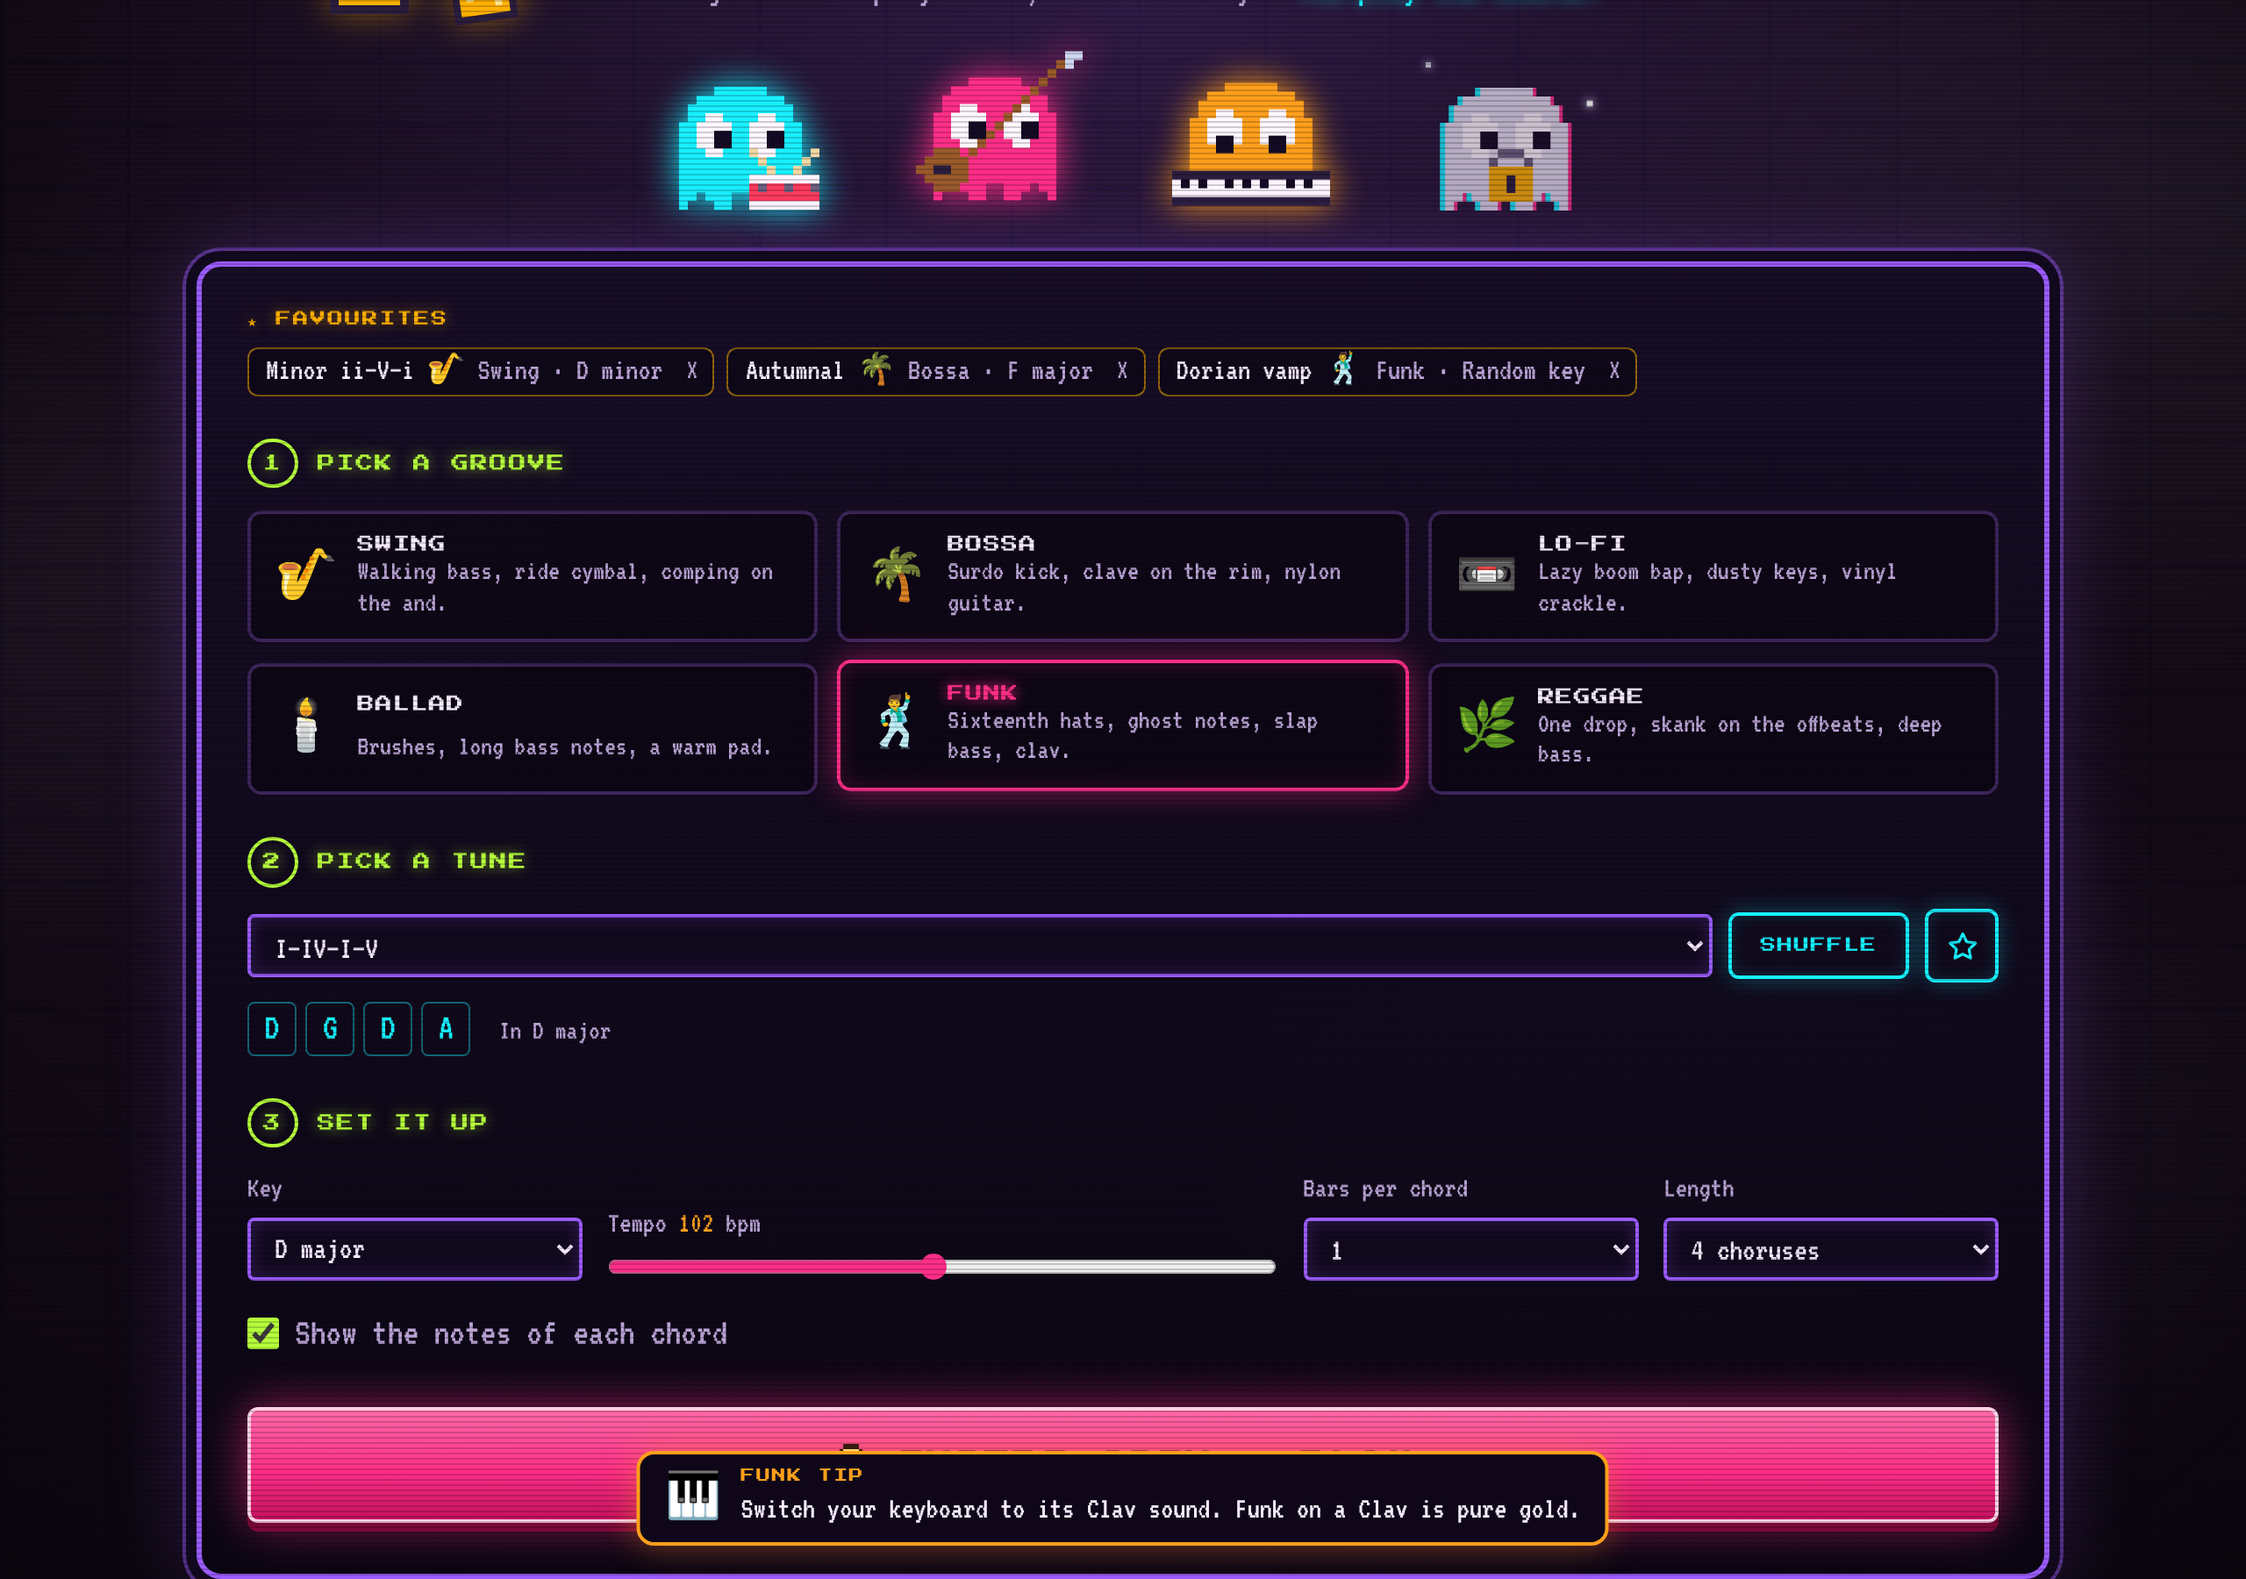
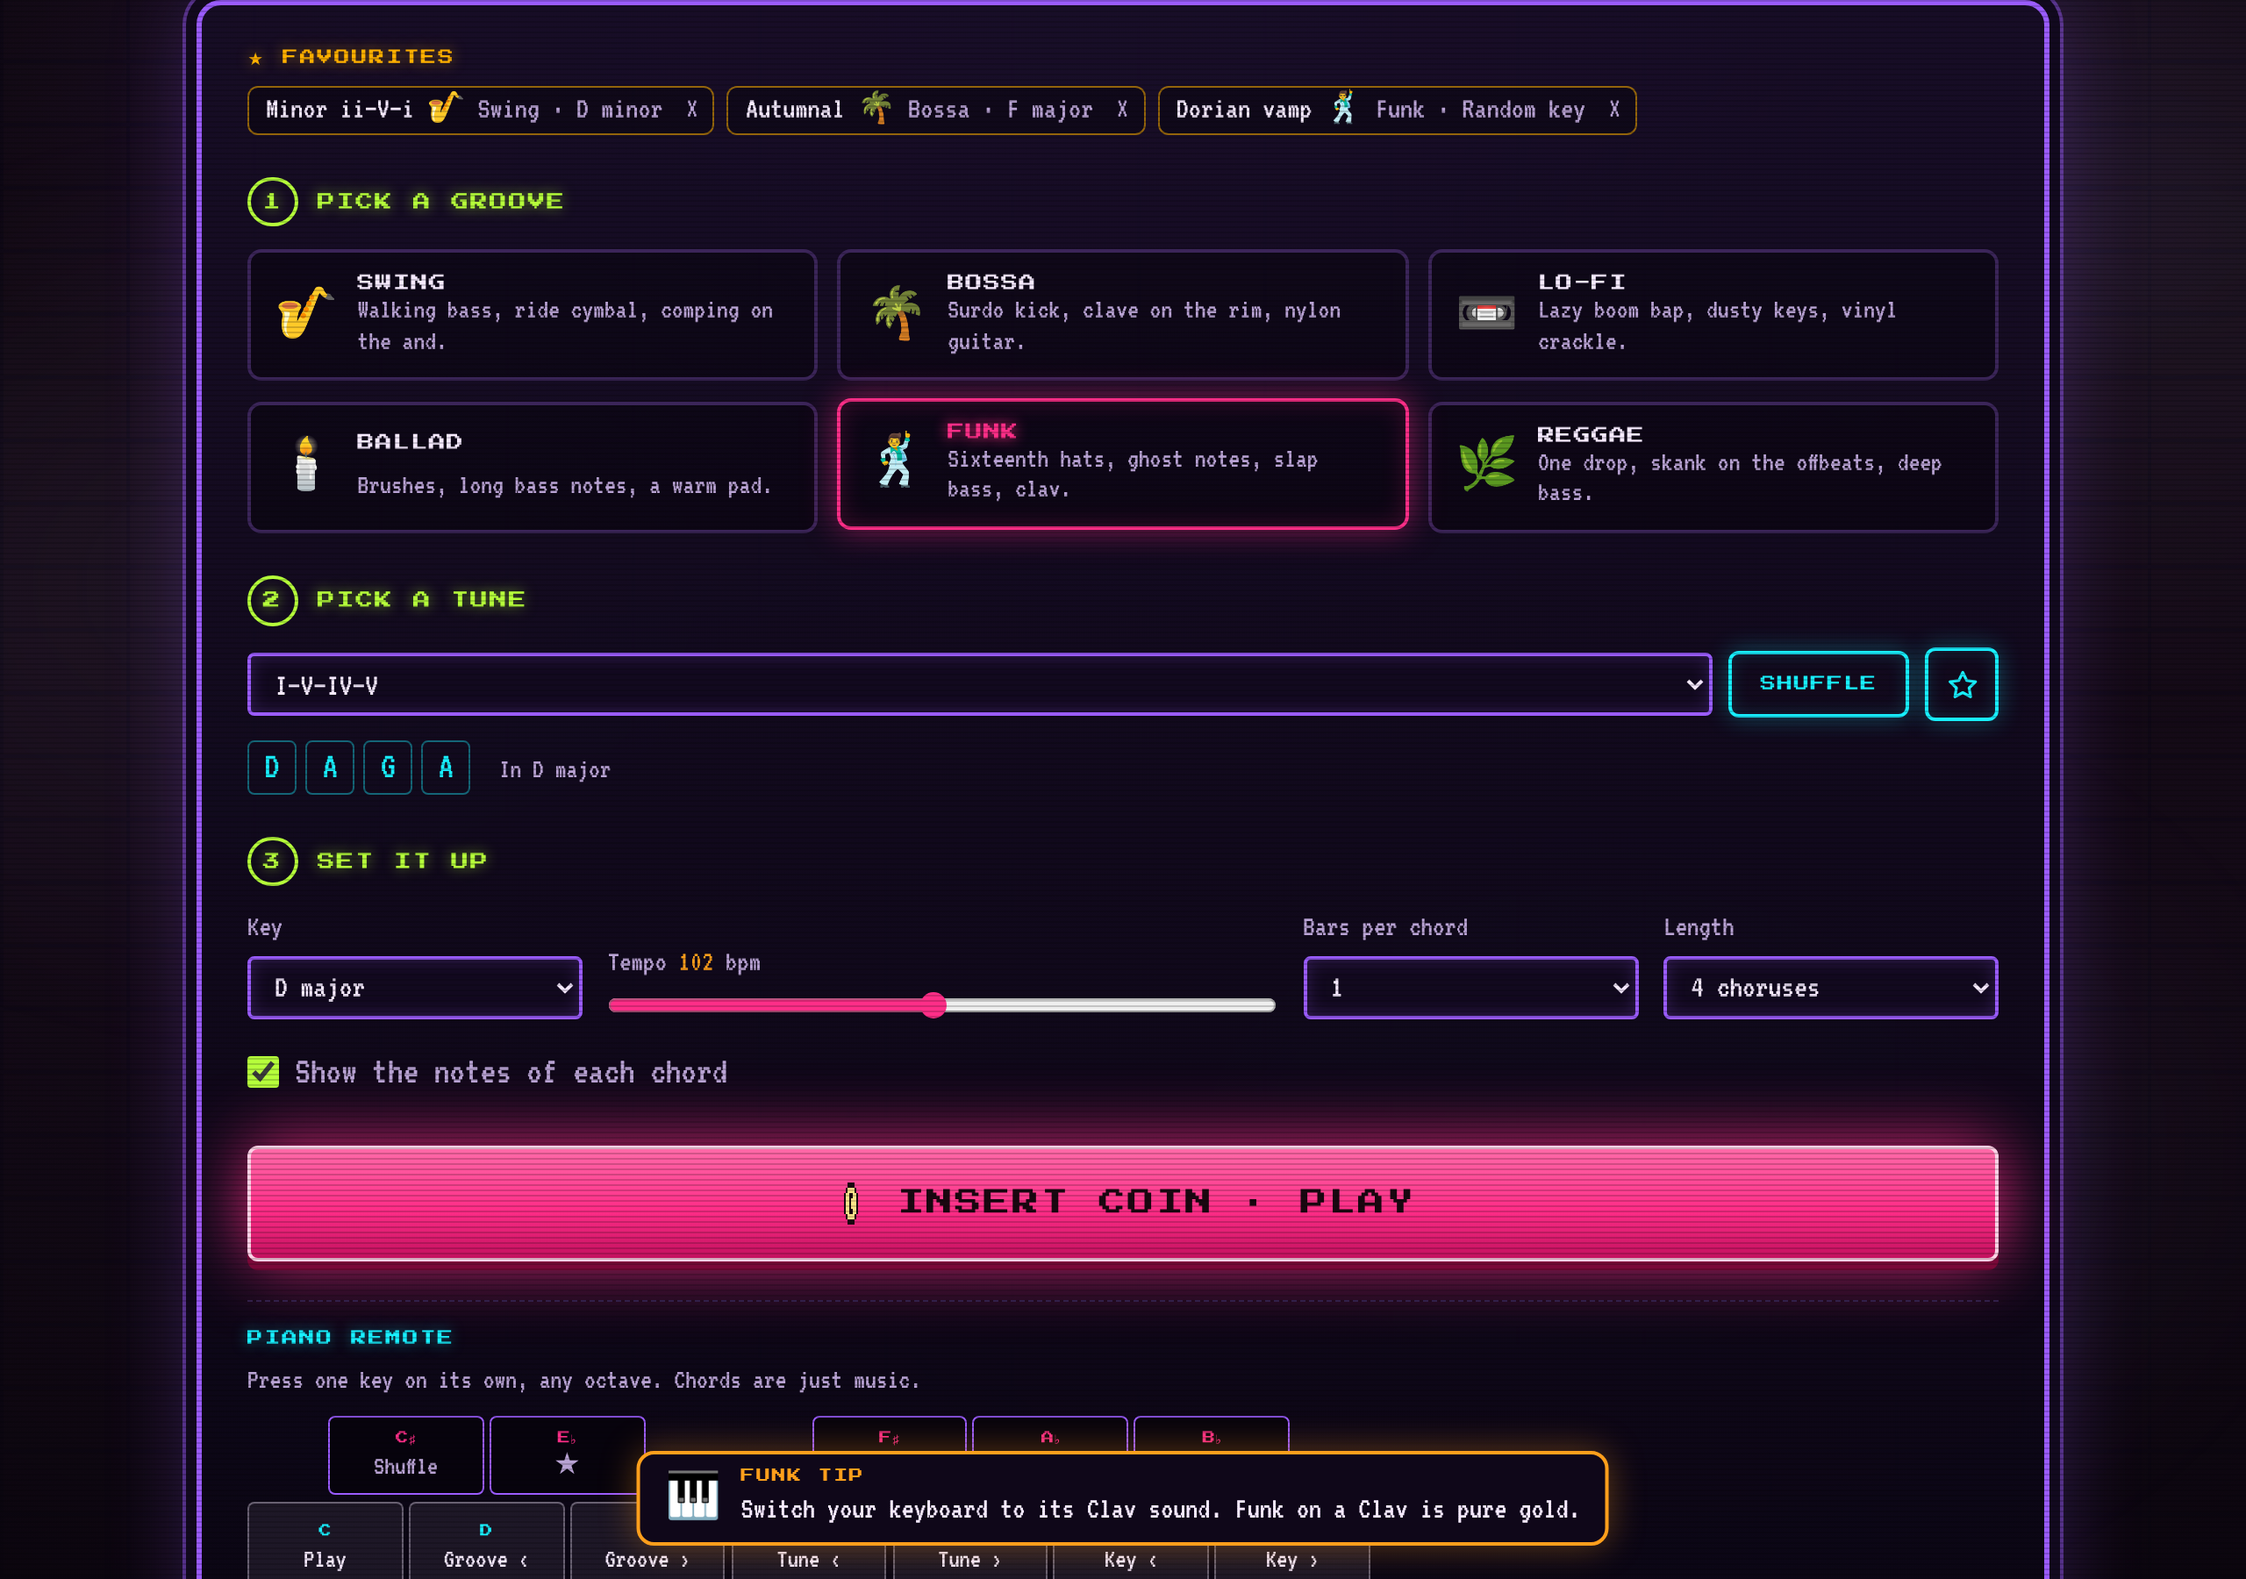
Ghost Jam: piano remote for the menus, keyboard shortcuts in play
Claude-Session: https://claude.ai/code/session_01FTf6Pa16uagEU9wMwitgnF

Changed region(s): [[0.0625, 0.0, 0.9375, 0.4978], [0.0625, 0.5289, 0.9375, 1.0], [0.375, 0.4978, 0.625, 0.5289]]

diff --git a/jam/js/main.js b/jam/js/main.js
@@ -19,6 +19,7 @@ import { track, logRun } from '../../js/stats/log.js';
 import { JamTracker } from './achievements.js';
 import { initTrophyCase, grant, bump, setMax, setFinished } from './trophyCase.js';
 import { isFavourite, toggleFavourite, removeFavourite, cleanFavourites } from './favourites.js';
+import { PianoRemote, SETUP_KEYS, RESULT_KEYS, step } from './remote.js';
 
 const $ = (id) => document.getElementById(id);
 const params = new URLSearchParams(location.search);
@@ -218,16 +219,18 @@ function renderHall() {
     : '<li class="hall-empty">No scores yet. The stage is yours.</li>';
 }
 
-$('styleGrid').addEventListener('click', (e) => {
-  const card = e.target.closest('[data-style]');
-  if (!card) return;
-  if (card.dataset.style !== settings.style) grooveTip(card.dataset.style);
-  settings.style = card.dataset.style;
+function setStyle(id) {
+  if (id !== settings.style) grooveTip(id);
+  settings.style = id;
   settings.tempo = null; // each groove has its own home tempo
   // A new groove keeps the tune only if it suits it.
   if (!fitsStyle(tuneByName(settings.tune), settings.style)) settings.tune = randomTune(settings.style);
   save();
   renderSetup();
+}
+$('styleGrid').addEventListener('click', (e) => {
+  const card = e.target.closest('[data-style]');
+  if (card) setStyle(card.dataset.style);
 });
 $('tuneSelect').addEventListener('change', (e) => { settings.tune = e.target.value; save(); renderCombo(); });
 $('randomTuneBtn').addEventListener('click', () => {
@@ -331,6 +334,8 @@ function midiStatus({ state, names }) {
   else if (state === 'unsupported') renderMidiHint(status, 'MIDI not supported here');
   else if (state === 'denied') renderMidiHint(status, 'MIDI access denied', { html: DENIED_HELP_HTML });
   $('midiGate').hidden = state === 'connected';
+  $('remote').hidden = state !== 'connected';
+  $('resultRemote').hidden = state !== 'connected';
   const copy = gateCopy(state);
   $('gateTitle').textContent = copy.title;
   $('gateSub').textContent = copy.sub;
@@ -454,6 +459,7 @@ function heldPcs() {
 }
 
 function onNoteOn(midi, velocity = 80, tPerf = performance.now()) {
+  remote.noteOn(midi, remoteScreen() !== null);
   held.set(midi, null);
   velocities.set(midi, velocity);
   let role = 'tone';
@@ -474,6 +480,8 @@ function onNoteOn(midi, velocity = 80, tPerf = performance.now()) {
 }
 
 function onNoteOff(midi) {
+  const pc = remote.noteOff(midi);
+  if (pc !== null) runRemote(pc);
   held.delete(midi);
   velocities.delete(midi);
   keyState(midi, null);
@@ -817,6 +825,97 @@ function backToSetup() {
   $('viewSetup').hidden = false;
   renderSetup();
 }
+
+// ---- Piano remote + keyboard shortcuts ----
+// On the setup and results screens a single key on the piano is a command
+// (see remote.js). The legend under the Play button shows which.
+
+const remote = new PianoRemote();
+
+function remoteScreen() {
+  if (!$('achModal').hidden) return null;
+  if (!game && !$('viewSetup').hidden) return 'setup';
+  if (game?.over && !$('resultModal').hidden) return 'results';
+  return null;
+}
+
+function flash(el) {
+  if (!el) return;
+  el.classList.remove('remote-flash');
+  void el.offsetWidth;
+  el.classList.add('remote-flash');
+  el.scrollIntoView({ block: 'nearest', behavior: 'smooth' });
+}
+
+// Move a <select> by one option and tell its listener.
+function stepSelect(sel, dir) {
+  sel.value = step([...sel.options].map((o) => o.value), sel.value, dir);
+  sel.dispatchEvent(new Event('change'));
+  flash(sel);
+}
+
+const SETUP_ACTIONS = {
+  play: () => $('playBtn').click(),
+  shuffle: () => { $('randomTuneBtn').click(); flash($('tuneSelect')); },
+  groovePrev: () => { setStyle(step(STYLE_ORDER, settings.style, -1)); flash($('styleGrid').querySelector('.is-on')); },
+  grooveNext: () => { setStyle(step(STYLE_ORDER, settings.style, 1)); flash($('styleGrid').querySelector('.is-on')); },
+  favourite: () => { $('favBtn').click(); flash($('favBtn')); },
+  tunePrev: () => stepSelect($('tuneSelect'), -1),
+  tuneNext: () => stepSelect($('tuneSelect'), 1),
+  keyPrev: () => stepSelect($('keySelect'), -1),
+  keyNext: () => stepSelect($('keySelect'), 1),
+  tempoDown: () => nudgeTempo(-5),
+  tempoUp: () => nudgeTempo(5),
+  nextFavourite: () => {
+    if (!favs.length) return;
+    const i = favs.findIndex((f) => isFavourite([f], combo()));
+    $('favList').querySelector(`[data-fav="${(i + 1) % favs.length}"]`).click();
+    flash($('favList').querySelector('.fav.is-on'));
+  },
+};
+const RESULT_ACTIONS = {
+  again: () => $('resultAgainBtn').click(),
+  back: () => $('resultBackBtn').click(),
+};
+
+function nudgeTempo(d) {
+  const range = $('tempoRange');
+  range.value = Number(range.value) + d;
+  range.dispatchEvent(new Event('input'));
+  flash(range.closest('.knob'));
+}
+
+function runRemote(pc) {
+  const screen = remoteScreen();
+  const cmd = screen === 'setup' ? SETUP_KEYS[pc] : screen === 'results' ? RESULT_KEYS[pc] : null;
+  if (!cmd) return;
+  (screen === 'setup' ? SETUP_ACTIONS : RESULT_ACTIONS)[cmd.id]();
+}
+
+// One octave, laid out like a piano: white keys below, black keys above.
+const BLACK_PCS = [1, 3, 6, 8, 10];
+const NOTE_LBL = ['C', 'C♯', 'D', 'E♭', 'E', 'F', 'F♯', 'G', 'A♭', 'A', 'B♭', 'B'];
+const WHITE_COL = { 0: 1, 2: 3, 4: 5, 5: 7, 7: 9, 9: 11, 11: 13 };
+$('remoteKeys').innerHTML = Object.entries(SETUP_KEYS).map(([pc, k]) => {
+  pc = Number(pc);
+  const black = BLACK_PCS.includes(pc);
+  const col = black ? WHITE_COL[pc - 1] + 1 : WHITE_COL[pc];
+  return `<span class="rk ${black ? 'rk-black' : 'rk-white'}" style="grid-column:${col} / span 2"><b>${NOTE_LBL[pc]}</b>${k.label}</span>`;
+}).join('');
+$('resultRemote').innerHTML = `Piano: ${Object.entries(RESULT_KEYS).map(([pc, k]) => `<b>${NOTE_LBL[pc]}</b> ${k.label}`).join(' · ')}`;
+
+document.addEventListener('keydown', (e) => {
+  if (e.repeat || e.metaKey || e.ctrlKey || e.altKey) return;
+  if (e.target.closest('input, select, textarea, button, a')) return;
+  if (game && !game.over) {
+    if (e.key === 'r' || e.key === 'R') { e.preventDefault(); restartGame(); }
+    else if (e.key === ' ') { e.preventDefault(); stopGame(); }
+  } else if (e.key === 'Enter') {
+    const screen = remoteScreen();
+    if (screen === 'setup') { e.preventDefault(); startGame(); }
+    else if (screen === 'results') { e.preventDefault(); $('resultAgainBtn').click(); }
+  }
+});
 
 $('playBtn').addEventListener('click', () => startGame());
 $('stopBtn').addEventListener('click', stopGame);

diff --git a/jam/js/remote.js b/jam/js/remote.js
@@ -1,0 +1,61 @@
+// Ghost Jam: the piano as a remote control for the menus. One key, pressed
+// and released on its own, is a command; a chord (or a key pressed while
+// another is held) is just playing and does nothing. Commands go by pitch
+// class, so any octave works. Never used while a set is playing: there the
+// notes belong to the judge.
+
+// Setup screen, one octave from C.
+export const SETUP_KEYS = {
+  0: { id: 'play', label: 'Play' },
+  1: { id: 'shuffle', label: 'Shuffle' },
+  2: { id: 'groovePrev', label: 'Groove ‹' },
+  3: { id: 'favourite', label: '★' },
+  4: { id: 'grooveNext', label: 'Groove ›' },
+  5: { id: 'tunePrev', label: 'Tune ‹' },
+  6: { id: 'tempoDown', label: 'Tempo −' },
+  7: { id: 'tuneNext', label: 'Tune ›' },
+  8: { id: 'tempoUp', label: 'Tempo +' },
+  9: { id: 'keyPrev', label: 'Key ‹' },
+  10: { id: 'nextFavourite', label: 'Fav ›' },
+  11: { id: 'keyNext', label: 'Key ›' },
+};
+
+// Results screen.
+export const RESULT_KEYS = {
+  0: { id: 'again', label: 'Play again' },
+  2: { id: 'back', label: 'Change tune' },
+};
+
+export class PianoRemote {
+  constructor() {
+    this.held = new Set();
+    this.armed = null;   // the key that opened the gesture, if it can be a command
+    this.spoiled = false; // another key joined in: it was a chord
+  }
+
+  // enabled: whether a command may start now (a menu is on screen).
+  noteOn(midi, enabled) {
+    if (this.held.size === 0) {
+      this.armed = enabled ? midi : null;
+      this.spoiled = false;
+    } else {
+      this.spoiled = true;
+    }
+    this.held.add(midi);
+  }
+
+  // Returns the pitch class of the command once every key is up, or null.
+  noteOff(midi) {
+    this.held.delete(midi);
+    if (this.held.size) return null;
+    const m = this.armed;
+    this.armed = null;
+    return m === null || this.spoiled ? null : m % 12;
+  }
+}
+
+// Step through a list with wrap-around.
+export const step = (list, current, dir) => {
+  const i = list.indexOf(current);
+  return list[((i < 0 ? 0 : i + dir) % list.length + list.length) % list.length];
+};

diff --git a/jam/jam.css b/jam/jam.css
@@ -774,3 +774,20 @@ body[data-energy="3"] .beat-glow { --glow: 0.55; }
 .groove-tip.visible { opacity: 1; transform: translate(-50%, 0); }
 .groove-tip-icon { font-size: 1.6rem; line-height: 1; }
 .groove-tip b { font-family: var(--font-display); font-size: 0.5rem; letter-spacing: 0.1em; text-transform: uppercase; color: var(--orange); font-weight: 400; display: block; margin-bottom: 0.2rem; }
+
+/* Piano remote: which key does what on the setup screen. */
+.remote { margin-top: 1.4rem; padding-top: 1rem; border-top: 1px dashed var(--line); }
+.remote-title { font-family: var(--font-display); font-size: 0.55rem; letter-spacing: 0.12em; text-transform: uppercase; color: var(--cyan); text-shadow: 0 0 8px rgba(24, 240, 255, 0.5); margin-bottom: 0.4rem; }
+.remote-sub { font-size: 1rem; color: var(--ivory-dim); margin: 0.3rem 0 0.7rem; }
+.remote-sub b { color: var(--ivory); font-weight: 400; }
+.remote-keys { display: grid; grid-template-columns: repeat(14, 1fr); grid-template-rows: auto auto; gap: 0.25rem 0.2rem; max-width: 640px; }
+.rk { display: flex; flex-direction: column; align-items: center; justify-content: center; text-align: center; padding: 0.3rem 0.1rem; border-radius: 4px; font-size: 0.95rem; line-height: 1; min-width: 0; overflow-wrap: anywhere; }
+.rk b { font-family: var(--font-display); font-size: 0.45rem; margin-bottom: 0.3rem; font-weight: 400; }
+.rk-white { grid-row: 2; min-height: 3.4rem; background: rgba(246, 234, 255, 0.08); border: 1px solid rgba(246, 234, 255, 0.35); color: var(--ivory); }
+.rk-white b { color: var(--cyan); }
+.rk-black { grid-row: 1; min-height: 2.8rem; background: #07030d; border: 1px solid var(--violet); color: var(--ivory-dim); }
+.rk-black b { color: var(--pink); }
+.result-remote { margin-top: 1rem; font-size: 1rem; color: var(--ivory-dim); text-align: center; }
+.result-remote b { color: var(--cyan); font-weight: 400; }
+.remote-flash { animation: remote-flash 0.6s ease-out; }
+@keyframes remote-flash { 0% { box-shadow: 0 0 0 3px var(--cyan), 0 0 24px var(--cyan); } 100% { box-shadow: 0 0 0 0 transparent; } }

diff --git a/tests/jam.test.js b/tests/jam.test.js
@@ -324,3 +324,22 @@ test('favourites: toggle, newest first, capped, cleaned', async () => {
     [b, { ...b, key: 'C' }]);
   assert.deepEqual(cleanFavourites('junk', ctx), []);
 });
+
+test('piano remote: one key alone is a command, a chord is not', async () => {
+  const { PianoRemote, SETUP_KEYS, step } = await import('../jam/js/remote.js');
+  const r = new PianoRemote();
+  r.noteOn(62, true);
+  assert.equal(r.noteOff(62), 2);                // D, any octave
+  r.noteOn(60, true); r.noteOn(64, true); r.noteOn(67, true);
+  assert.equal(r.noteOff(60), null);
+  assert.equal(r.noteOff(64), null);
+  assert.equal(r.noteOff(67), null);              // a C chord does nothing
+  r.noteOn(60, false);
+  assert.equal(r.noteOff(60), null);              // pressed while playing: never a command
+  r.noteOn(60, true); r.noteOn(72, true); r.noteOff(72);
+  assert.equal(r.noteOff(60), null);              // another key joined in
+  assert.equal(Object.keys(SETUP_KEYS).length, 12);
+  assert.equal(new Set(Object.values(SETUP_KEYS).map((k) => k.id)).size, 12);
+  assert.equal(step(['a', 'b', 'c'], 'c', 1), 'a');
+  assert.equal(step(['a', 'b', 'c'], 'a', -1), 'c');
+});

diff --git a/jam/index.html b/jam/index.html
@@ -136,6 +136,13 @@
           <span class="coin" id="coinSprite"></span>
           <span>Insert coin · Play</span>
         </button>
+
+        <div class="remote" id="remote" hidden>
+          <div class="remote-title">Piano remote</div>
+          <p class="remote-sub">Press one key on its own, any octave. Chords are just music.</p>
+          <div class="remote-keys" id="remoteKeys"></div>
+          <p class="remote-sub">Computer keyboard: <b>Enter</b> play · <b>R</b> restart · <b>Space</b> stop · <b>Esc</b> back to the menu</p>
+        </div>
       </div>
 
       <div class="hall">
@@ -220,6 +227,7 @@
       <button type="button" class="arcade-btn small ghosty" id="resultBackBtn">Change tune</button>
       <button type="button" class="arcade-btn small" id="resultAgainBtn">Play again</button>
     </div>
+    <div class="result-remote" id="resultRemote" hidden></div>
   </div>
 </div>
 
